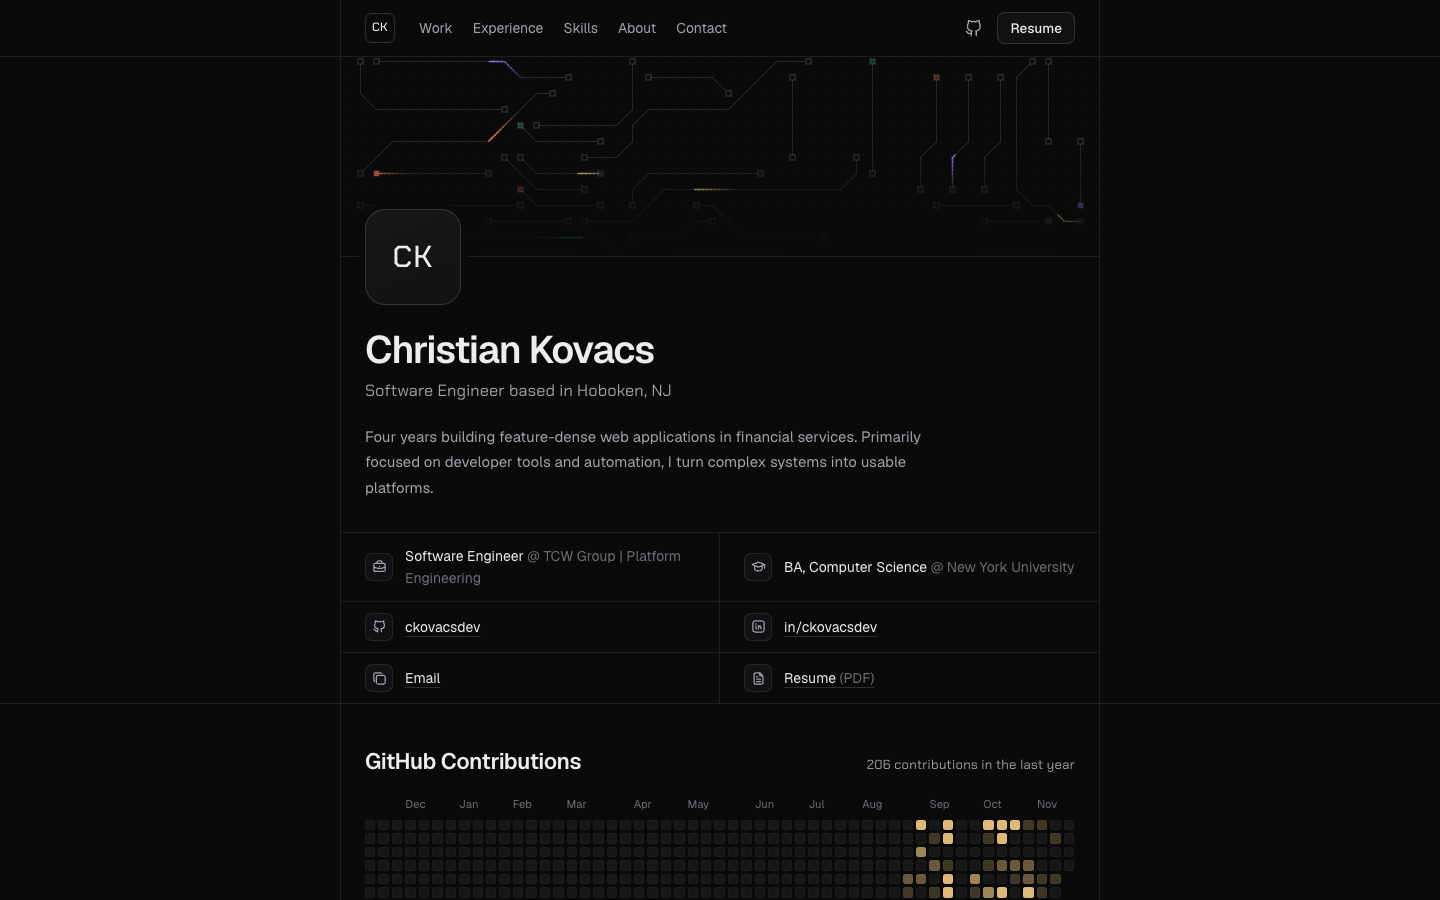
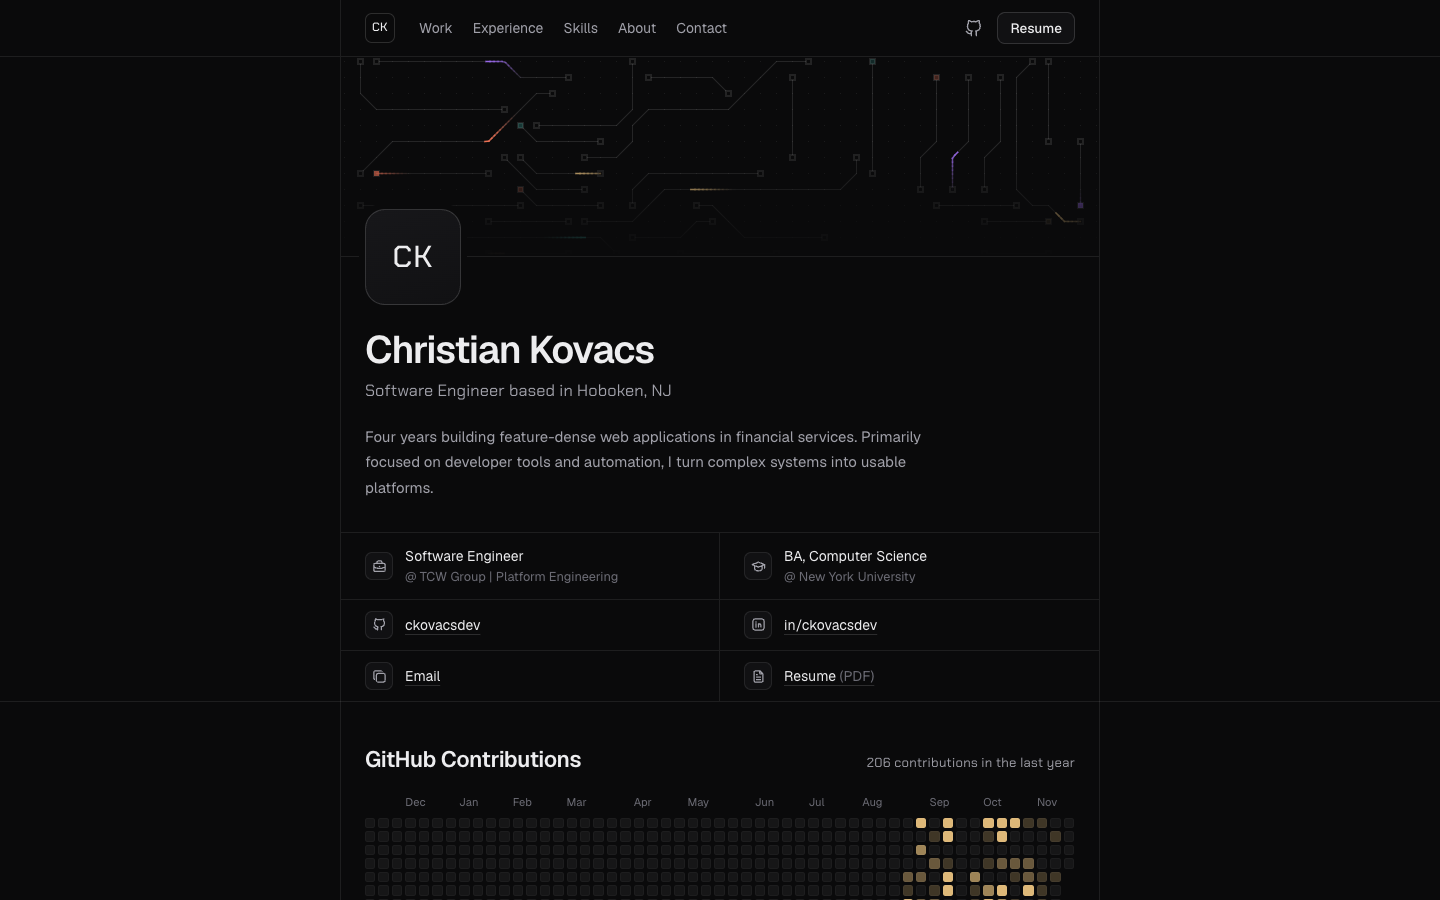
update line spacing on landing page positions

diff --git a/src/sections/profile/profile.tsx b/src/sections/profile/profile.tsx
@@ -41,10 +41,12 @@ export const Profile = () => {
 
             <ul className='profile-facts'>
                 <Fact icon={TbBriefcase}>
-                    Software Engineer <span className='profile-fact-muted'>@ TCW Group | Platform Engineering </span>
+                    Software Engineer
+                    <span className='profile-fact-muted profile-fact-sub'>@ TCW Group | Platform Engineering</span>
                 </Fact>
                 <Fact icon={TbSchool}>
-                    BA, Computer Science <span className='profile-fact-muted'>@ New York University</span>
+                    BA, Computer Science
+                    <span className='profile-fact-muted profile-fact-sub'>@ New York University</span>
                 </Fact>                
                 <Fact icon={TbBrandGithub}>
                     <a className='profile-fact-link' href={GITHUB_URL} target='_blank' rel='noopener noreferrer'>

diff --git a/src/sections/profile/profile.css b/src/sections/profile/profile.css
@@ -100,6 +100,12 @@
     color: var(--text-faint);
 }
 
+/* A second line under the title, for the company or school */
+.profile-fact-sub{
+    display: block;
+    font-size: 0.8rem;
+}
+
 .profile-fact-link{
     padding: 0;
     border: 0;
